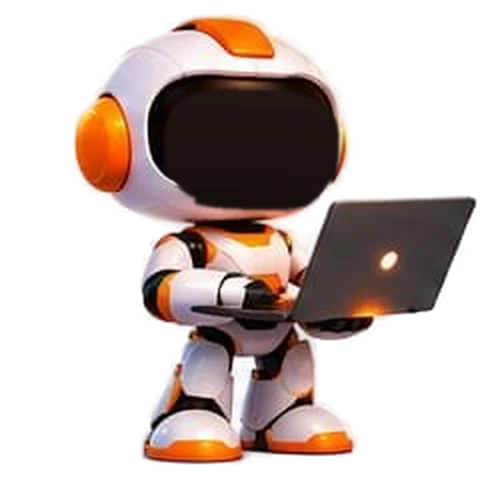
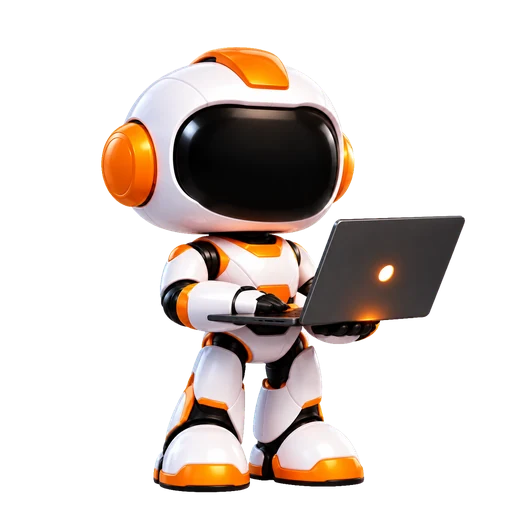
Round 6: CTA band buttons, store skeleton, chat pack, SEO fixes

diff --git a/assets/uno-mascot.js b/assets/uno-mascot.js
@@ -7,14 +7,15 @@
   var NS = 'http://www.w3.org/2000/svg';
   var BASE = 'assets/';
   var RIG = {
-    thumbs: { mx: 291.3, my: 140.0, d: 96.8, ang: 15.2 },
-    shield: { mx: 208.9, my: 110.8, d: 84.2, ang: -10.6 },
-    bulb: { mx: 222.7, my: 145.9, d: 84.7, ang: -14.5 },
-    laptop: { mx: 251.5, my: 126.0, d: 85.9, ang: 1.7 },
-    support: { mx: 289.9, my: 131.7, d: 87.8, ang: 10.2 },
-    wrench: { mx: 247.7, my: 114.8, d: 80.1, ang: -4.9 }
+    thumbs: { mx: 240.0, my: 138.5, d: 68.06, ang: 7.7 },
+    shield: { mx: 240.0, my: 138.5, d: 68.06, ang: -11.1 },
+    bulb: { mx: 240.0, my: 138.5, d: 68.06, ang: -16.0 },
+    laptop: { mx: 240.0, my: 138.5, d: 68.06, ang: 0.7 },
+    support: { mx: 240.0, my: 138.5, d: 68.06, ang: 5.7 },
+    wrench: { mx: 240.0, my: 138.5, d: 68.25, ang: -5.4 }
   };
-  var AX = 250, AY = 150, AD = 88; /* common anchor so the face stays put across poses */
+
+  var AX = 240, AY = 138.5, AD = 78; /* common anchor so the face stays put across poses */
   var STATE_POSE = { idle: 'thumbs', speaking: 'thumbs', happy: 'thumbs', listening: 'support', thinking: 'laptop' };
   var KW = [
     [/(اهلا|أهلا|مرحبا|مرحباً|السلام|ازيك|hello|hi\b|welcome|hey|شكرا|شكراً|تمام|ممتاز|حاضر|great|sure|thanks|perfect)/i, 'thumbs'],
@@ -51,7 +52,7 @@
       img.style.cssText = 'position:absolute;left:0;top:0;width:480px;height:480px;display:block;pointer-events:none';
       img.onload = function () { loaded++; layers[name].ready = true; if (name === cur) wrap.style.opacity = 1; };
       img.onerror = function () { if (name === 'thumbs') { failed = true; if (opts.onfail) opts.onfail(); } };
-      img.src = BASE + 'uno-bot-' + name + '.webp?v=20261128h';
+      img.src = BASE + 'uno-bot-' + name + '.webp?v=20261129r4';
       var svg = el('svg', { viewBox: '0 0 480 480', width: 480, height: 480 }); svg.style.cssText = 'position:absolute;left:0;top:0;pointer-events:none;overflow:visible';
       var face = el('g', { transform: 'translate(' + (r.mx) + ' ' + (r.my) + ') rotate(' + r.ang + ') translate(0 ' + (0.27 * d) + ')' });
       /* eyes: arc (happy) + orb (open), glow underlay, in visor frame units of d */
@@ -74,7 +75,7 @@
       var aL = arcEye(-d / 2), aR = arcEye(d / 2), oL = orbEye(-d / 2), oR = orbEye(d / 2);
       var eyesArc = el('g', {}), eyesOrb = el('g', { opacity: 0 });
       eyesArc.appendChild(aL.g); eyesArc.appendChild(aR.g); eyesOrb.appendChild(oL.g); eyesOrb.appendChild(oR.g);
-      var mouthG = el('g', { transform: 'translate(0 ' + (0.11 * d) + ')' });
+      var mouthG = el('g', { transform: 'translate(0 ' + (0.38 * d) + ')' });
       var mGlow = el('path', { d: '', fill: 'none', stroke: '#ff9a1a', 'stroke-opacity': '.3', 'stroke-width': 0.1 * d, 'stroke-linecap': 'round', 'stroke-linejoin': 'round' });
       var mMain = el('path', { d: '', fill: 'rgba(255,120,10,.0)', stroke: '#ffb82e', 'stroke-width': 0.07 * d, 'stroke-linecap': 'round', 'stroke-linejoin': 'round' });
       mouthG.appendChild(mGlow); mouthG.appendChild(mMain);

diff --git a/assets/live.js b/assets/live.js
@@ -4,7 +4,7 @@ if(window.UNO_ROBOT_ON){var _av=document.createElement("script");_av.src="assets
 /* Loads published content from Supabase (falls back to assets/content.js), then starts the site. */
 (function(){
 var c=window.UNO_CFG,done=false,t;
-function go(){if(done)return;done=true;clearTimeout(t);var s=document.createElement("script");s.src="assets/app.js?v=20261129t1";document.body.appendChild(s)}
+function go(){if(done)return;done=true;clearTimeout(t);var s=document.createElement("script");s.src="assets/app.js?v=20261129t2";document.body.appendChild(s)}
 try{
  t=setTimeout(go,2500);
  fetch(c.url+"/rest/v1/site_content?id=eq.1&select=data",{headers:{apikey:c.key}}).then(function(r){return r.json()}).then(function(r){
